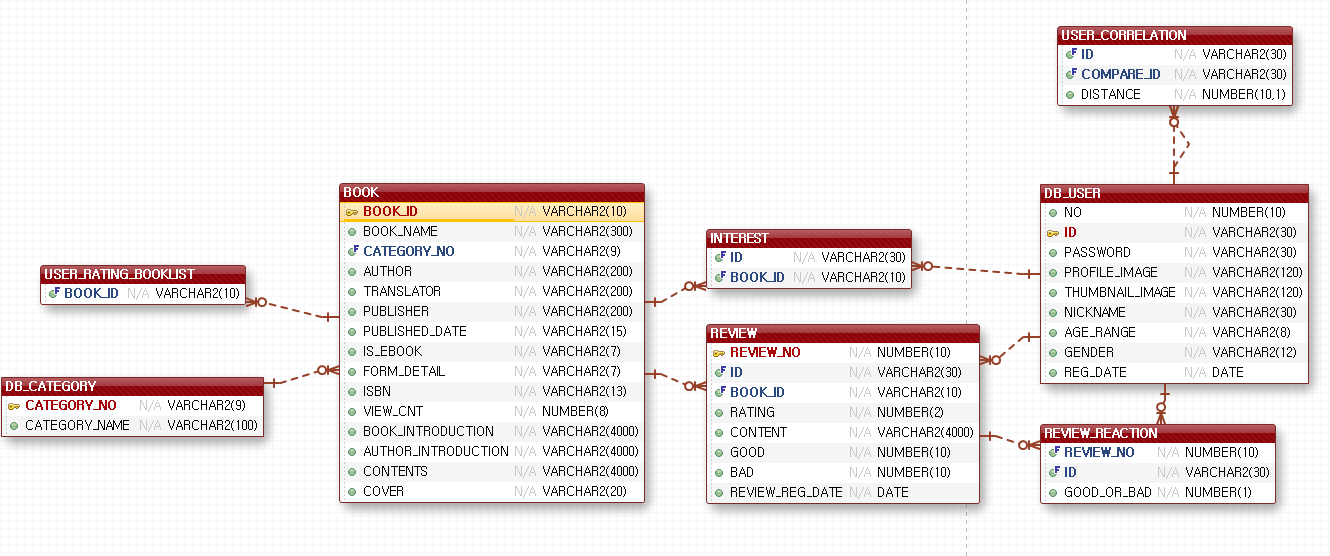
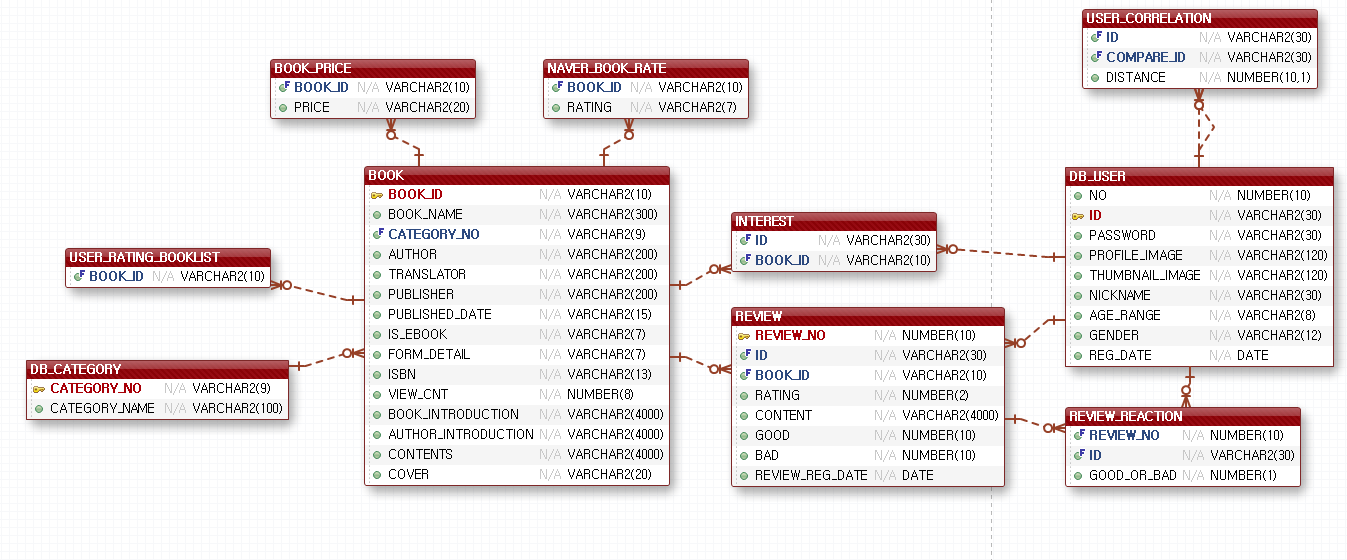
-카테고리 버그 픽스 -eXERD 이미지 수정

diff --git a/DBook/src/main/java/kr/co/project/book/controller/BookController.java b/DBook/src/main/java/kr/co/project/book/controller/BookController.java
@@ -54,7 +54,9 @@ public class BookController {
 		List<BookVO> bookListByCategory = new ArrayList<>();
 		CategoryVO categoryVO = new CategoryVO(start,end,category);
 		
-		if(category == null) {
+		System.out.println(category);
+	
+		if(category == null || category.equals("")) {
 			category = "110";
 			categoryVO.setCategoryNumber("110");
 		}
